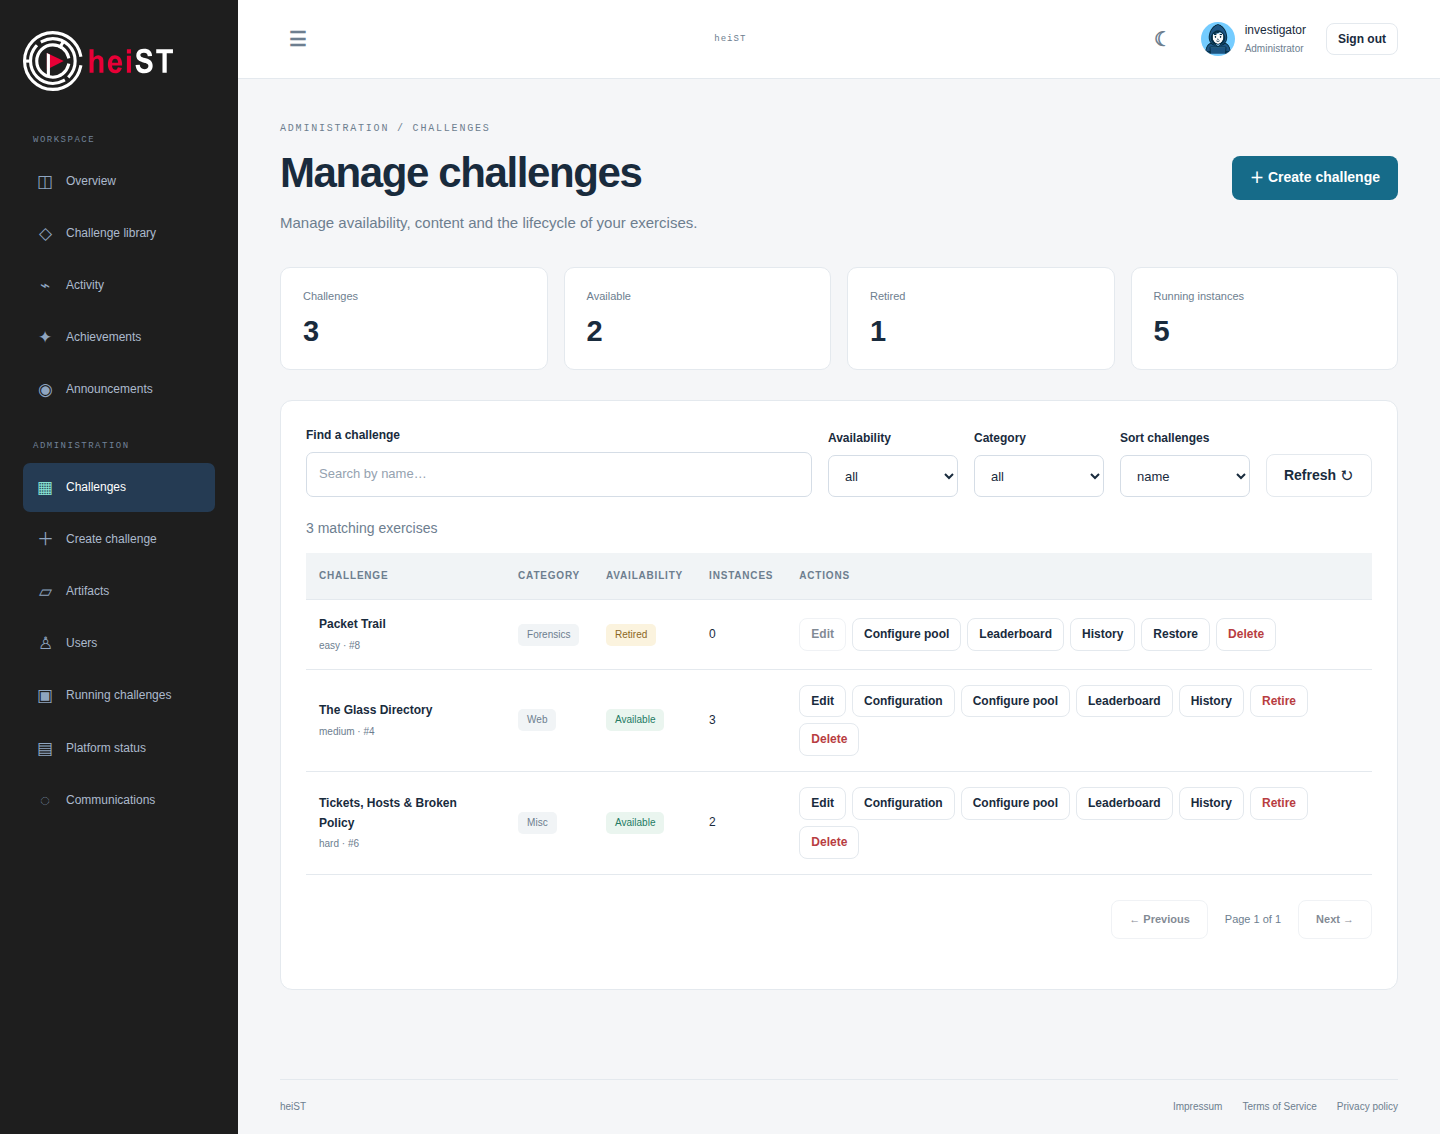
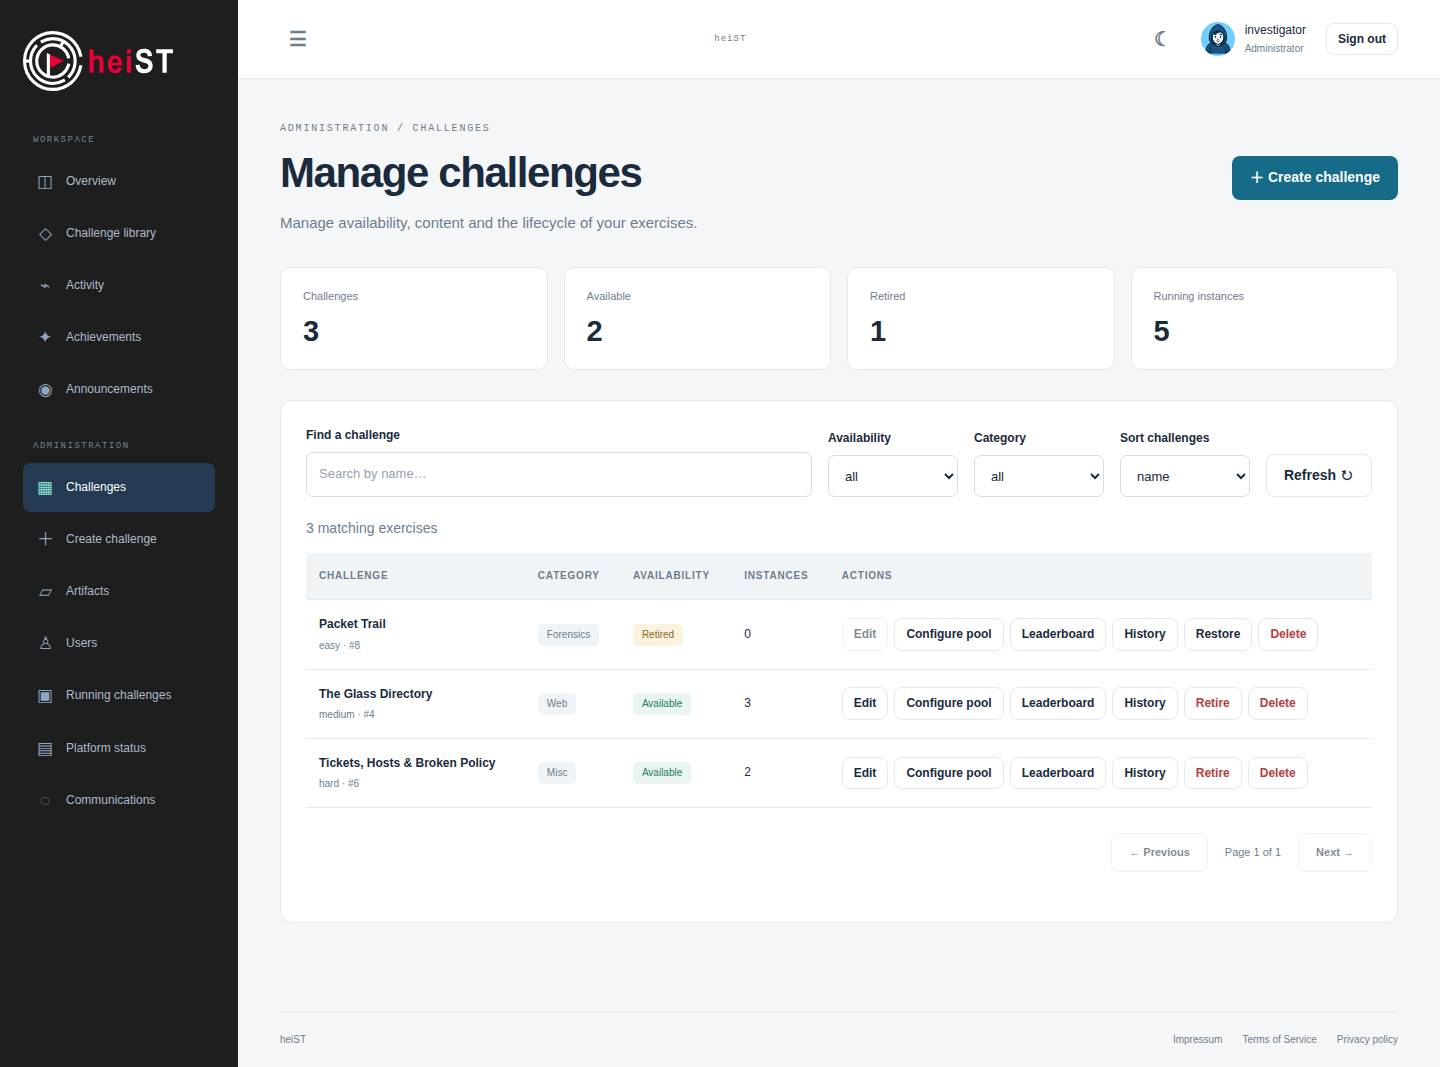
Use one challenge edit workflow

diff --git a/frontend/src/features/administration/ChallengeManagementPage.tsx b/frontend/src/features/administration/ChallengeManagementPage.tsx
@@ -1,7 +1,7 @@
-import { useState, type FormEvent } from 'react';
-import { Area, Badge, Card, Confirm, Empty, Field, Notice, PageTitle, Pager, ResourceState, Select, Stat } from '../../components/ui.tsx';
+import { useState } from 'react';
+import { Badge, Card, Confirm, Empty, Field, Notice, PageTitle, Pager, ResourceState, Select, Stat } from '../../components/ui.tsx';
 import { request } from '../../lib/api.ts';
-import { categories, difficulties, number, payload, row, rows, text, truth, type Row } from '../../lib/data.ts';
+import { categories, number, payload, row, rows, text, truth, type Row } from '../../lib/data.ts';
 import { Link, useRouter } from '../../lib/router.tsx';
 import { useAction, useResource } from '../../lib/state.tsx';
 import { PoolEditor } from './PoolEditor.tsx';
@@ -9,7 +9,7 @@ import { ExerciseHistoryPanel } from './ExerciseHistoryPanel.tsx';
 export function ManageChallenges() {
   const router=useRouter(), selected=number(new URLSearchParams(router.location.split('?')[1]).get('exercise'));
   const resource = useResource('/api/admin/challenges', 30000), data = payload(resource.data), stats = row(data.stats), action = useAction();
-  const [search, setSearch] = useState(''), [state, setState] = useState('all'), [editing, setEditing] = useState<Row | null>(null), [deleting, setDeleting] = useState<Row | null>(null), [force, setForce] = useState(false), [leader, setLeader] = useState<Row | null>(null);
+  const [search, setSearch] = useState(''), [state, setState] = useState('all'), [deleting, setDeleting] = useState<Row | null>(null), [force, setForce] = useState(false), [leader, setLeader] = useState<Row | null>(null);
   const [poolId,setPoolId] = useState(0);
   const [category, setCategory] = useState('all'), [sort, setSort] = useState('name'), [page, setPage] = useState(1);
   const filtered = rows(data.challenges).filter(c => text(c.name).toLowerCase().includes(search.toLowerCase()) && (state === 'all' || (state === 'active' ? truth(c.is_active) && !truth(c.marked_for_deletion) : state === 'retired' ? truth(c.marked_for_deletion) : !truth(c.is_active))));
@@ -17,7 +17,6 @@ export function ManageChallenges() {
     .sort((a, b) => (sort === 'deployments' ? number(b.active_deployments) - number(a.active_deployments) : text(a.name).localeCompare(text(b.name))) || number(a.id) - number(b.id));
   const totalPages = Math.max(1, Math.ceil(matching.length / 20)), currentPage = Math.min(page, totalPages);
   const challenges = matching.slice((currentPage - 1) * 20, currentPage * 20);
-  async function edit(event: FormEvent<HTMLFormElement>) { event.preventDefault(); const form = new FormData(event.currentTarget); form.set('isActive', form.has('isActive') ? 'true' : 'false'); await action.run(() => request('/api/admin/challenges/'+text(editing?.id), {method: 'PUT', body: Object.fromEntries(form)}), () => { setEditing(null); resource.reload(); }); }
   return <>
     <PageTitle
       eyebrow="ADMINISTRATION / CHALLENGES"
@@ -87,8 +86,9 @@ export function ManageChallenges() {
                 </td>
                 <td>
                   <div className="table-actions">
-                    <button className="secondary small" disabled={truth(c.marked_for_deletion)} onClick={() => setEditing(c)}>Edit</button>
-                    {!truth(c.marked_for_deletion) && <Link className="button secondary small" href={`/create-ctf?edit=${number(c.id)}`}>Configuration</Link>}
+                    {truth(c.marked_for_deletion)
+                      ? <button className="secondary small" disabled>Edit</button>
+                      : <Link className="button secondary small" href={`/create-ctf?edit=${number(c.id)}`}>Edit</Link>}
                     <button className="secondary small" onClick={()=>setPoolId(number(c.id))}>Configure pool</button>
                     <button className="secondary small" onClick={() => setLeader(c)}>Leaderboard</button>
                     <button className="secondary small" onClick={()=>router.navigate('/manage-ctf?exercise='+number(c.id))}>History</button>
@@ -105,42 +105,6 @@ export function ManageChallenges() {
     </ResourceState>
     {poolId>0&&<PoolEditor identifier={poolId} onClose={()=>setPoolId(0)} onSaved={resource.reload}/>}
     {selected>0&&<ExerciseHistoryPanel key={selected} identifier={selected} name={text(rows(data.challenges).find(item=>number(item.id)===selected)?.name,'Exercise #'+selected)} onClose={()=>router.navigate('/manage-ctf')}/>}
-    {editing && <Card title={`Edit ${text(editing.name)}`} className="editor-panel">
-      <form onSubmit={edit}>
-        <Field
-          label="Challenge name"
-          name="name"
-          defaultValue={text(editing.name)}
-          required
-          maxLength={100} />
-        <Area
-          label="Description"
-          name="description"
-          defaultValue={text(editing.description)}
-          maxLength={2000}
-          required />
-        <div className="form-grid">
-          <Select
-            label="Category"
-            name="category"
-            defaultValue={text(editing.category)}
-            options={categories} />
-          <Select
-            label="Difficulty"
-            name="difficulty"
-            defaultValue={text(editing.difficulty)}
-            options={difficulties} />
-        </div>
-        <Area label="General hint" name="hint" defaultValue={text(editing.hint)} />
-        <Area label="Tutor solution" name="solution" defaultValue={text(editing.solution)} />
-        <label className="check">
-          <input type="checkbox" name="isActive" defaultChecked={truth(editing.is_active)} />Available to students</label>
-        <div className="button-row">
-          <button disabled={action.busy}>Save changes</button>
-          <button type="button" className="secondary" onClick={() => setEditing(null)}>Cancel</button>
-        </div>
-      </form>
-    </Card>}
     {leader && <Leaderboard challenge={leader} onClose={() => setLeader(null)} />}
     {deleting && <Confirm
       title={force ? 'Permanently delete this challenge?' : 'Retire this challenge?'}

diff --git a/frontend/src/features/administration/ChallengeEditorPage.tsx b/frontend/src/features/administration/ChallengeEditorPage.tsx
@@ -103,7 +103,7 @@ export function CreateChallenge() {
   return <>
     <PageTitle
       eyebrow="ADMINISTRATION / CHALLENGES"
-      title={editing ? 'Edit configuration' : 'Create challenge'}
+      title={editing ? 'Edit challenge' : 'Create challenge'}
       description="Configure machines, networks and flags."
       action={<Link href="/manage-ctf">← Back to challenges</Link>} />
     <Notice error={action.error} message={action.message} />
@@ -325,7 +325,7 @@ export function CreateChallenge() {
                 </div>
                 <label className="check">
                   <input type="checkbox" disabled={!!editing} name="isActive" defaultChecked={truth(imported.isActive)} />Make available to students</label>
-                <p className="muted">{editing ? 'Configuration stays paused until you publish it from Edit.' : 'Leave this unchecked to create an inactive exercise for review.'}</p>
+                <p className="muted">{editing ? 'The challenge stays paused until you publish it from this editor.' : 'Leave this unchecked to create an inactive exercise for review.'}</p>
                 <button className="full" type="submit" disabled={action.busy}>
                   {action.busy ? 'Saving…' : editing ? 'Save configuration' : 'Create challenge →'}
                 </button>

diff --git a/tests/browser/ui_management.py b/tests/browser/ui_management.py
@@ -100,7 +100,7 @@ class ManagementBrowserTests(BrowserFixture):
 
     def test_paused_configuration_editor_sends_structured_identity_preserving_definition(self):
         self.settled('/create-ctf?edit=4')
-        self.page.get_by_role('heading',name='Edit configuration',exact=True).wait_for()
+        self.page.get_by_role('heading',name='Edit challenge',exact=True).wait_for()
         machines=self.page.get_by_role('group',name='Machine 1',exact=True)
         self.assertTrue(self.page.get_by_role('button',name='Add machine',exact=False).is_disabled())
         self.assertTrue(machines.get_by_label('OVA artifact',exact=True).is_disabled())

diff --git a/docs/administration/README.md b/docs/administration/README.md
@@ -113,7 +113,7 @@ The challenge editor includes a live SVG network preview and a textual connectio
 list. It updates after YAML import, edits, attachment changes and removals; DMZ
 and student-accessible networks are labelled. No graphing library is required.
 
-For an existing exercise, **Manage challenges → Configuration** opens the same
+For an existing exercise, **Manage challenges → Edit** opens the same
 topology editor. Drain its pool, finish or remove all instances, and pause it
 before saving. Machine and flag identities remain fixed; CPU/RAM, directory
 roles, networks, hints and unearned flag metadata can be updated. OVA replacement

diff --git a/docs/administration/MANAGEMENT.md b/docs/administration/MANAGEMENT.md
@@ -86,7 +86,7 @@ Back up the database and registered image library independently.
 
 ### Editing an existing exercise
 
-Use **Manage challenges → Configuration** for machine resources, directory
+Use **Manage challenges → Edit** for machine resources, directory
 roles, networks, flags and hints. The server permits this only while the
 exercise is paused, not retired, and has no remaining assigned, provisioning or
 ready instances. Set its manual pool target to zero, wait for unused copies to
